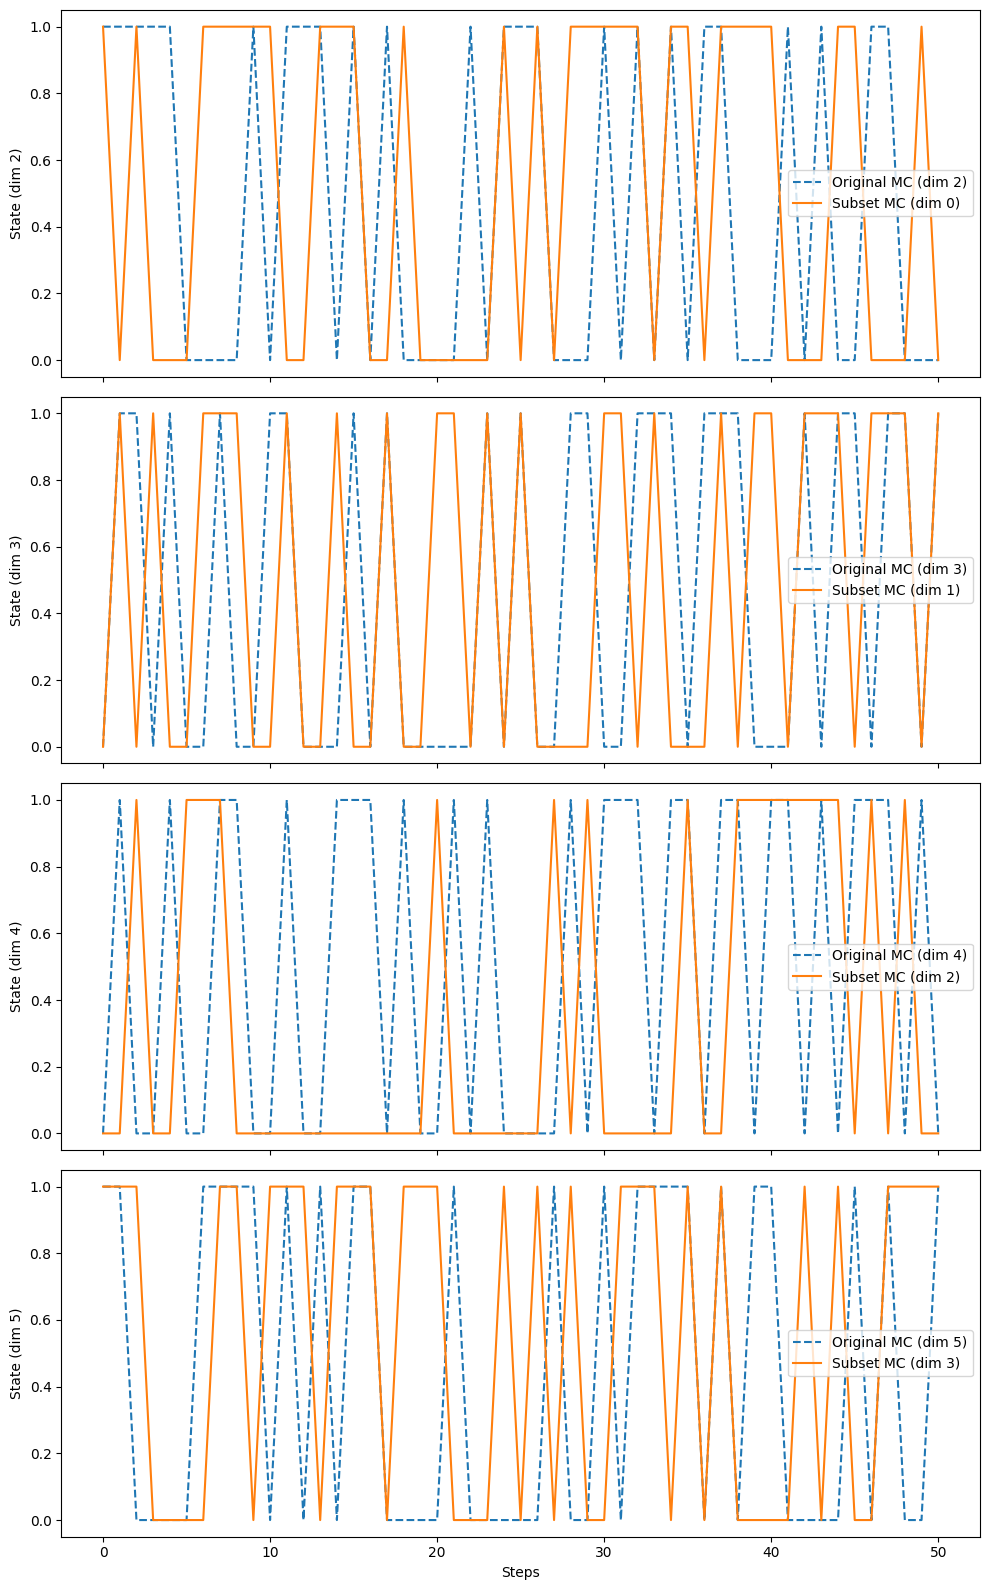
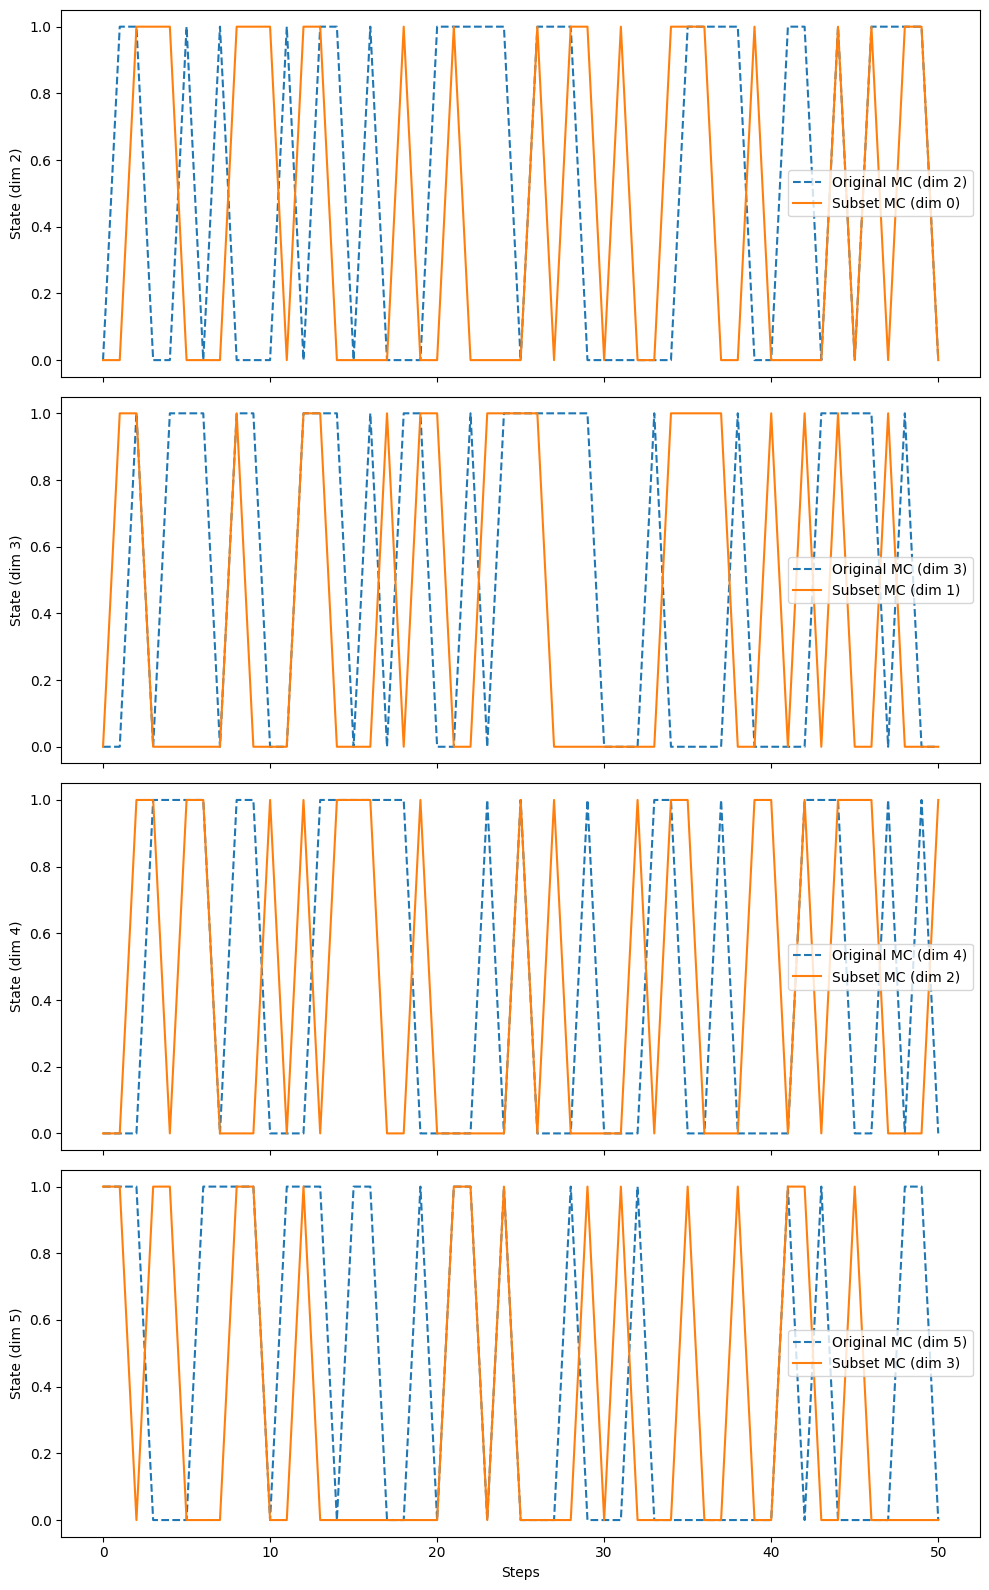
revised plots

diff --git a/dist2fact/README.md b/dist2fact/README.md
@@ -4,9 +4,9 @@ We use submodular minimization on the KL divergence between original transition 
 
 We are also interested in submodular maximization on the KL divergence between original transition probability matrix P and the outer product of keep-S-in and leave-S-out matrices, subject to a cardinality constraint $|S| \leq k$. We apply Proposition 14.18 of [2], get monotonically non-decreasing function $g(S) = D(P \| P^{(S)} \otimes P^{(-S)}) + \sum_{e \in S} D(P \| P^{(U \backslash \{e\})} \otimes P^{(e)})$. Since $\sum_{e \in S} D(P \| P^{(U \backslash \{e\})} \otimes P^{(e)})$ is modular, we have $D(P \| P^{(S)} \otimes P^{(-S)}) = g(S) - c(S)$, in which case we can apply the distorted greedy algorithm in [1], see `main_distorted_greedy_maximization.py`.
 
-The following is a visualization of optimization results, in which case we select the 3-dimensional subset Markov chain with the largest distance to factorizability out of a 8-dimensional Markov chain.
+The following is the visualization these algorithms, in which case we aim to choose a subset Markov chain with at most 4 dimensions out of a 13-dimensional Markov chain.
 
-![Distance to factorizability](/assets/dist2fact_simulation.png)
+![Distance to factorizability](/assets/sample_paths_dist_grdy_dist2fact.png)
 
 # References
 * [1] Harshaw, C., Feldman, M., Ward, J., & Karbasi, A. (2019). Submodular maximization beyond non-negativity: Guarantees, fast algorithms, and applications. In International Conference on Machine Learning (pp. 2634-2643). PMLR.
